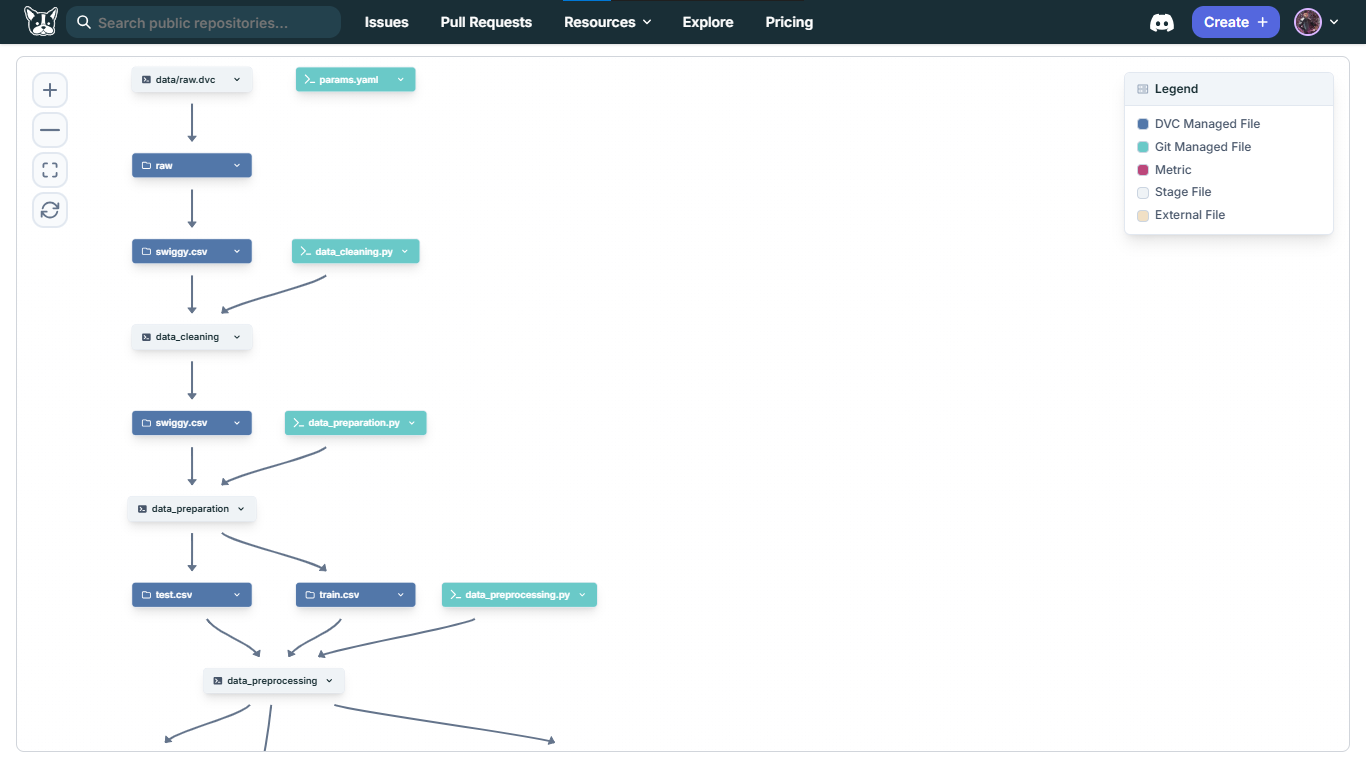
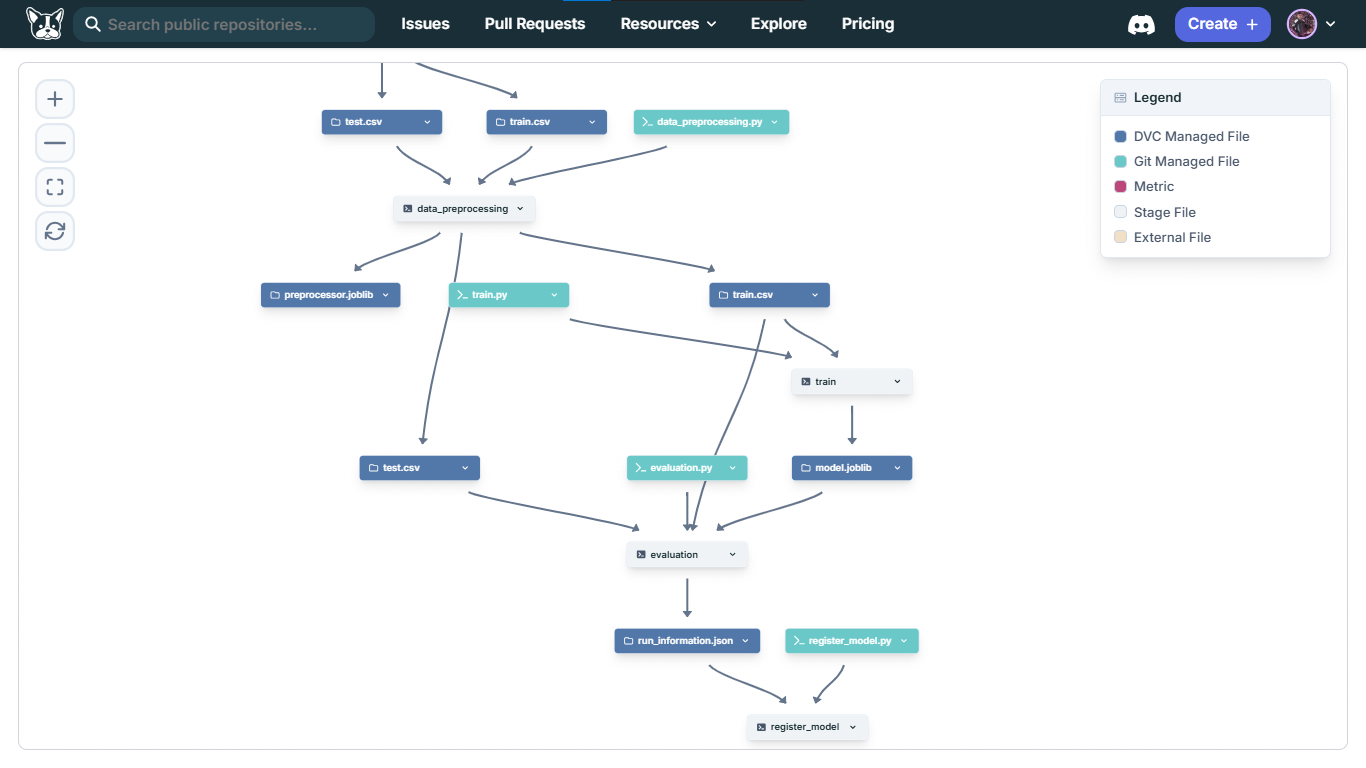
correcting readme.md images

diff --git a/README.md b/README.md
@@ -152,8 +152,8 @@ We have developed a FastAPI application for the model deployment as it is fast a
 ```
 18.73
 ```
-![alt text](/reports/figures/image.png)
-![alt text](/reports/figures/image-1.png)
+![alt text](/reports/figures/image-11.png)
+![alt text](/reports/figures/image-12.png)
 
 ### CI/CD
 1. Pull the codes from GitHub into the runner. 
